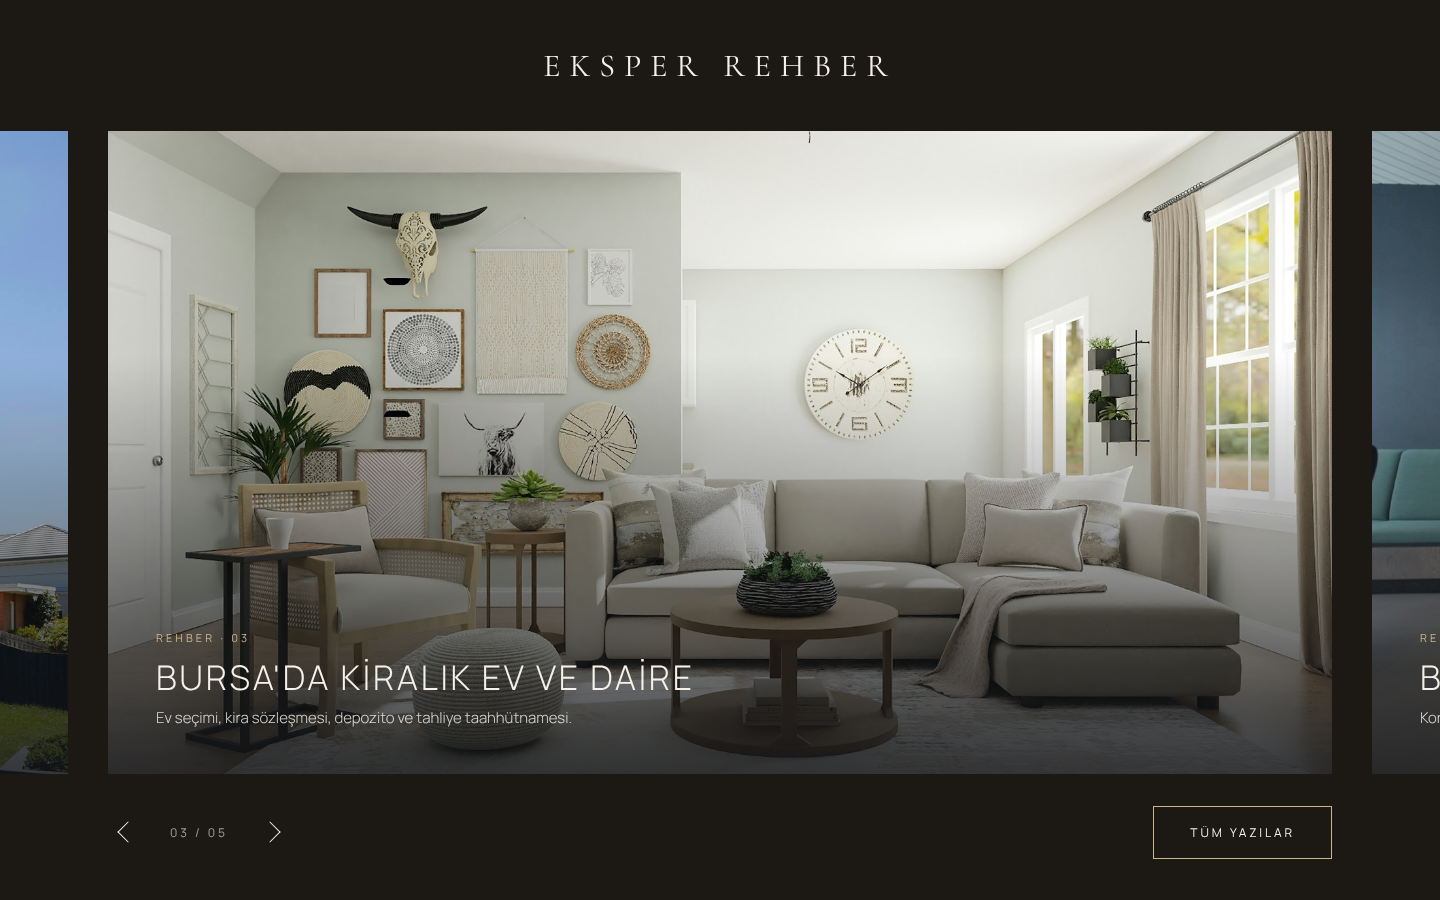
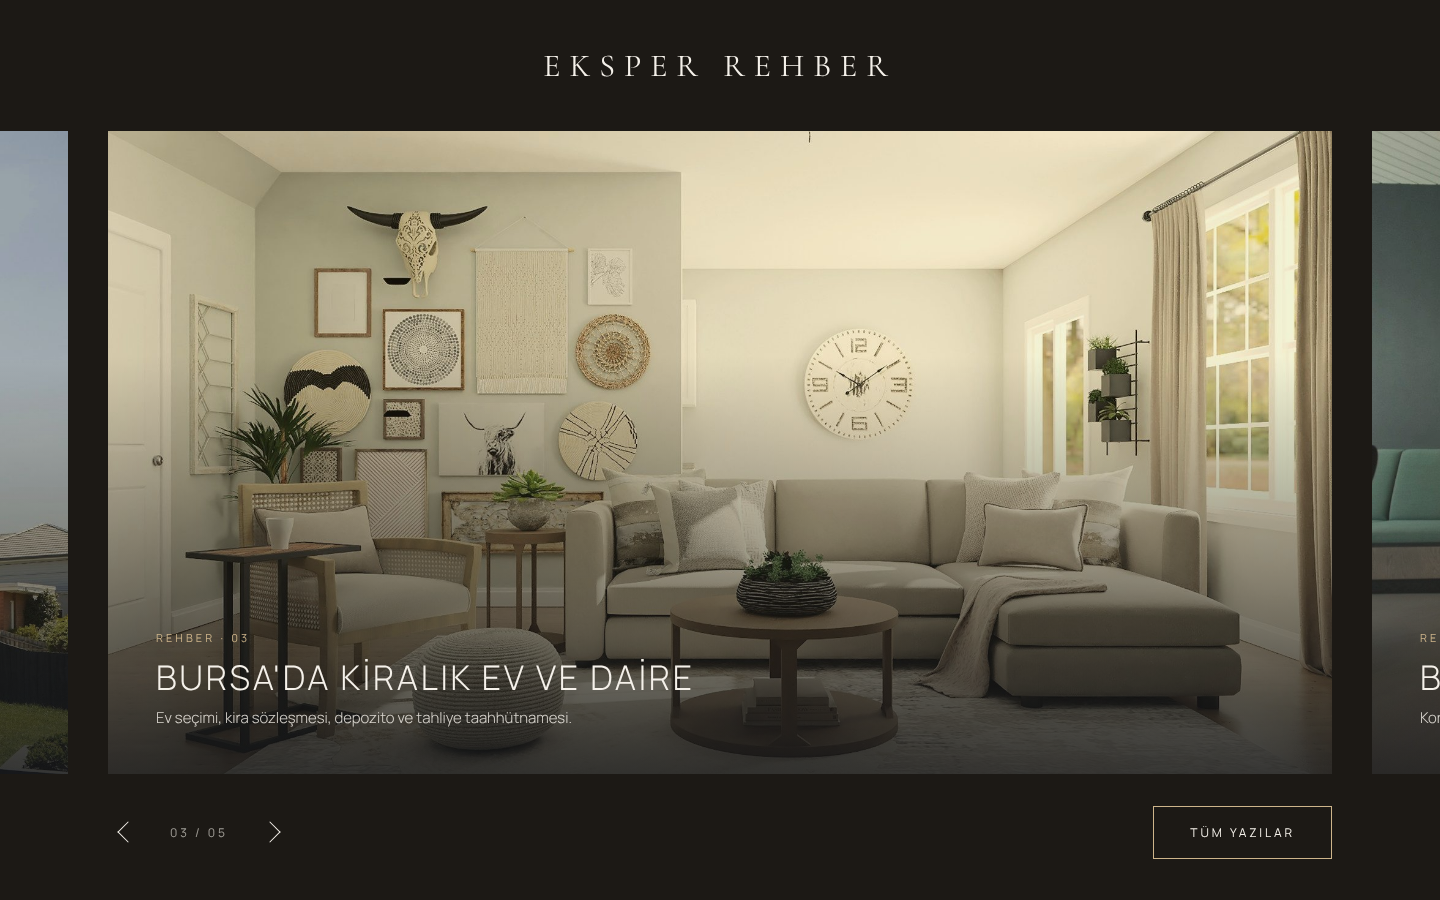
Stok fotoğrafları yerel klasöre al ve sıcak film tonuyla eşitle
Claude-Session: https://claude.ai/code/session_01RpRroQoF4BRD7ftTEzAbsX

diff --git a/index.html b/index.html
@@ -311,15 +311,15 @@
     </div>
   </div>
   <div class="split">
-    <div class="media"><img src="https://images.unsplash.com/photo-1600585154526-990dced4db0d?w=1600&q=75&fm=jpg" alt="" loading="lazy"></div>
+    <div class="media"><img src="img/stok/1600585154526-990dced4db0d.jpg" alt="" loading="lazy"></div>
     <div class="txt rv"><div class="n">01</div><h3>Satanlar için</h3><p>Gayrimenkulünüzün en kısa zamanda ve değerinde satılması için.</p><ul><li>Emsalleri inceleyerek fiyat araştırması</li><li>İç ve dış fotoğraf çekimi, ilan sitelerinde yayın ve takip</li><li>Teknik inceleme ile az masrafla değer artırma önerileri</li><li>Alıcı tekliflerinin değerlendirilmesi</li></ul></div>
   </div>
   <div class="split rev">
-    <div class="media"><img src="https://images.unsplash.com/photo-1618221195710-dd6b41faaea6?w=1600&q=75&fm=jpg" alt="" loading="lazy"></div>
+    <div class="media"><img src="img/stok/1618221195710-dd6b41faaea6.jpg" alt="" loading="lazy"></div>
     <div class="txt rv"><div class="n">02</div><h3>Alanlar için</h3><p>Siz ve aileniz için en doğru kararı vermeniz için.</p><ul><li>İhtiyaçlarınıza uygun gayrimenkul araştırması</li><li>Depreme dayanıklılık ve teknik inceleme</li><li>Kredi ve faiz araştırması</li><li>Satıcıyla bire bir görüşme ve teklif</li></ul></div>
   </div>
   <div class="split">
-    <div class="media"><img src="https://images.unsplash.com/photo-1497366811353-6870744d04b2?w=1600&q=75&fm=jpg" alt="" loading="lazy"></div>
+    <div class="media"><img src="img/stok/1497366811353-6870744d04b2.jpg" alt="" loading="lazy"></div>
     <div class="txt rv"><div class="n">03</div><h3>Kiralama ve mülk yönetimi</h3><p>Konut, işyeri, ofis ve arazide kiraya veren ve kiracıya danışmanlık.</p><ul><li>Kiralama aracılık hizmetleri</li><li>Kiralık ofis ve işyeri danışmanlığı</li><li>Vergi, harç, abonelik ve sigorta işlemlerinin takibi</li></ul></div>
   </div>
   <div class="split rev">
@@ -335,19 +335,19 @@
     <p>Uzun yıllar edinilen gayrimenkul inceleme ve değerleme tecrübesiyle, alacağınız evi yapısıyla birlikte değerlendiriyoruz.</p>
   </div>
   <div class="band rv">
-    <img src="https://images.unsplash.com/photo-1487958449943-2429e8be8625?w=2000&q=75&fm=jpg" alt="" loading="lazy">
+    <img src="img/stok/1487958449943-2429e8be8625.jpg" alt="" loading="lazy">
     <div class="wrap"><div class="n">01</div><div><h3>Depreme dayanıklılık</h3><p>Alacağınız gayrimenkulün depreme karşı dayanıklılığını araştırıyoruz.</p></div></div>
   </div>
   <div class="band rv">
-    <img src="https://images.unsplash.com/photo-1600566752355-35792bedcfea?w=2000&q=75&fm=jpg" alt="" loading="lazy">
+    <img src="img/stok/1600566752355-35792bedcfea.jpg" alt="" loading="lazy">
     <div class="wrap"><div class="n">02</div><div><h3>Malzeme kalitesi</h3><p>İnşaatta kullanılan malzemenin TSE standartlarına uyup uymadığına bakıyoruz.</p></div></div>
   </div>
   <div class="band rv">
-    <img src="https://images.unsplash.com/photo-1503387762-592deb58ef4e?w=2000&q=75&fm=jpg" alt="" loading="lazy">
+    <img src="img/stok/1503387762-592deb58ef4e.jpg" alt="" loading="lazy">
     <div class="wrap"><div class="n">03</div><div><h3>Teknik inceleme</h3><p>Alacağınız gayrimenkulü teknik olarak inceliyoruz.</p></div></div>
   </div>
   <div class="band rv">
-    <img src="https://images.unsplash.com/photo-1431576901776-e539bd916ba2?w=2000&q=75&fm=jpg" alt="" loading="lazy">
+    <img src="img/stok/1431576901776-e539bd916ba2.jpg" alt="" loading="lazy">
     <div class="wrap"><div class="n">04</div><div><h3>Gerçek değer</h3><p>Emsalleri inceleyerek doğru fiyatı araştırıyoruz.</p></div></div>
   </div>
 </section>
@@ -356,23 +356,23 @@
   <h2 class="gtitle rv">Eksper Rehber</h2>
   <div class="track" id="track">
       <a class="slide" href="https://www.eksperbursaemlak.com/bursa-da-depreme-dayanikli-ev-nasil-anlasilir/" target="_blank" rel="noopener">
-        <img src="https://images.unsplash.com/photo-1600566753190-17f0baa2a6c3?w=1800&q=75&fm=jpg" alt="" loading="lazy">
+        <img src="img/stok/1600566753190-17f0baa2a6c3.jpg" alt="" loading="lazy">
         <div class="cap"><div class="k">Rehber · 01</div><h3>Bursa'da depreme dayanıklı ev nasıl anlaşılır?</h3><p>Fay hattı, zemin, yapı malzemesi ve kolon-kiriş sistemi.</p></div>
       </a>
       <a class="slide" href="https://www.eksperbursaemlak.com/gayrimenkul-satisinda-dikkat-edilecek-hususlar/" target="_blank" rel="noopener">
-        <img src="https://images.unsplash.com/photo-1600047509807-ba8f99d2cdde?w=1800&q=75&fm=jpg" alt="" loading="lazy">
+        <img src="img/stok/1600047509807-ba8f99d2cdde.jpg" alt="" loading="lazy">
         <div class="cap"><div class="k">Rehber · 02</div><h3>Alım-satımda dikkat edilecek hususlar</h3><p>Vekaletname, hisseli arsa, kapora öncesi tapu ve belediye kontrolü, ipotek.</p></div>
       </a>
       <a class="slide" href="https://www.eksperbursaemlak.com/bursa-kiralik-ev-ve-daire/" target="_blank" rel="noopener">
-        <img src="https://images.unsplash.com/photo-1616486338812-3dadae4b4ace?w=1800&q=75&fm=jpg" alt="" loading="lazy">
+        <img src="img/stok/1616486338812-3dadae4b4ace.jpg" alt="" loading="lazy">
         <div class="cap"><div class="k">Rehber · 03</div><h3>Bursa'da kiralık ev ve daire</h3><p>Ev seçimi, kira sözleşmesi, depozito ve tahliye taahhütnamesi.</p></div>
       </a>
       <a class="slide" href="https://www.eksperbursaemlak.com/bursa-kiralik-isyeri-ve-bursa-kiralik-ofis/" target="_blank" rel="noopener">
-        <img src="https://images.unsplash.com/photo-1497366216548-37526070297c?w=1800&q=75&fm=jpg" alt="" loading="lazy">
+        <img src="img/stok/1497366216548-37526070297c.jpg" alt="" loading="lazy">
         <div class="cap"><div class="k">Rehber · 04</div><h3>Bursa'da kiralık işyeri ve ofis</h3><p>Konum, bütçe, teknik özellikler ve doğru kiracı seçimi.</p></div>
       </a>
       <a class="slide" href="https://www.eksperbursaemlak.com/kiraciyi-nasil-cikarabilirim/" target="_blank" rel="noopener">
-        <img src="https://images.unsplash.com/photo-1600607687939-ce8a6c25118c?w=1800&q=75&fm=jpg" alt="" loading="lazy">
+        <img src="img/stok/1600607687939-ce8a6c25118c.jpg" alt="" loading="lazy">
         <div class="cap"><div class="k">Rehber · 05</div><h3>Kiracıyı nasıl çıkarabilirim?</h3><p>Yasal süreç, uzlaşma yolları ve kira sözleşmesi.</p></div>
       </a>
   </div>
@@ -383,7 +383,7 @@
 </section>
 
 <section class="portfolio" id="ilanlar">
-  <img src="https://images.unsplash.com/photo-1600210492486-724fe5c67fb0?w=2000&q=75&fm=jpg" alt="" loading="lazy">
+  <img src="img/stok/1600210492486-724fe5c67fb0.jpg" alt="" loading="lazy">
   <div class="wrap rv">
     <div class="eyebrow">Portföy</div>
     <h2>Güncel ilanlarımız <em>sahibinden.com</em>'da</h2>
